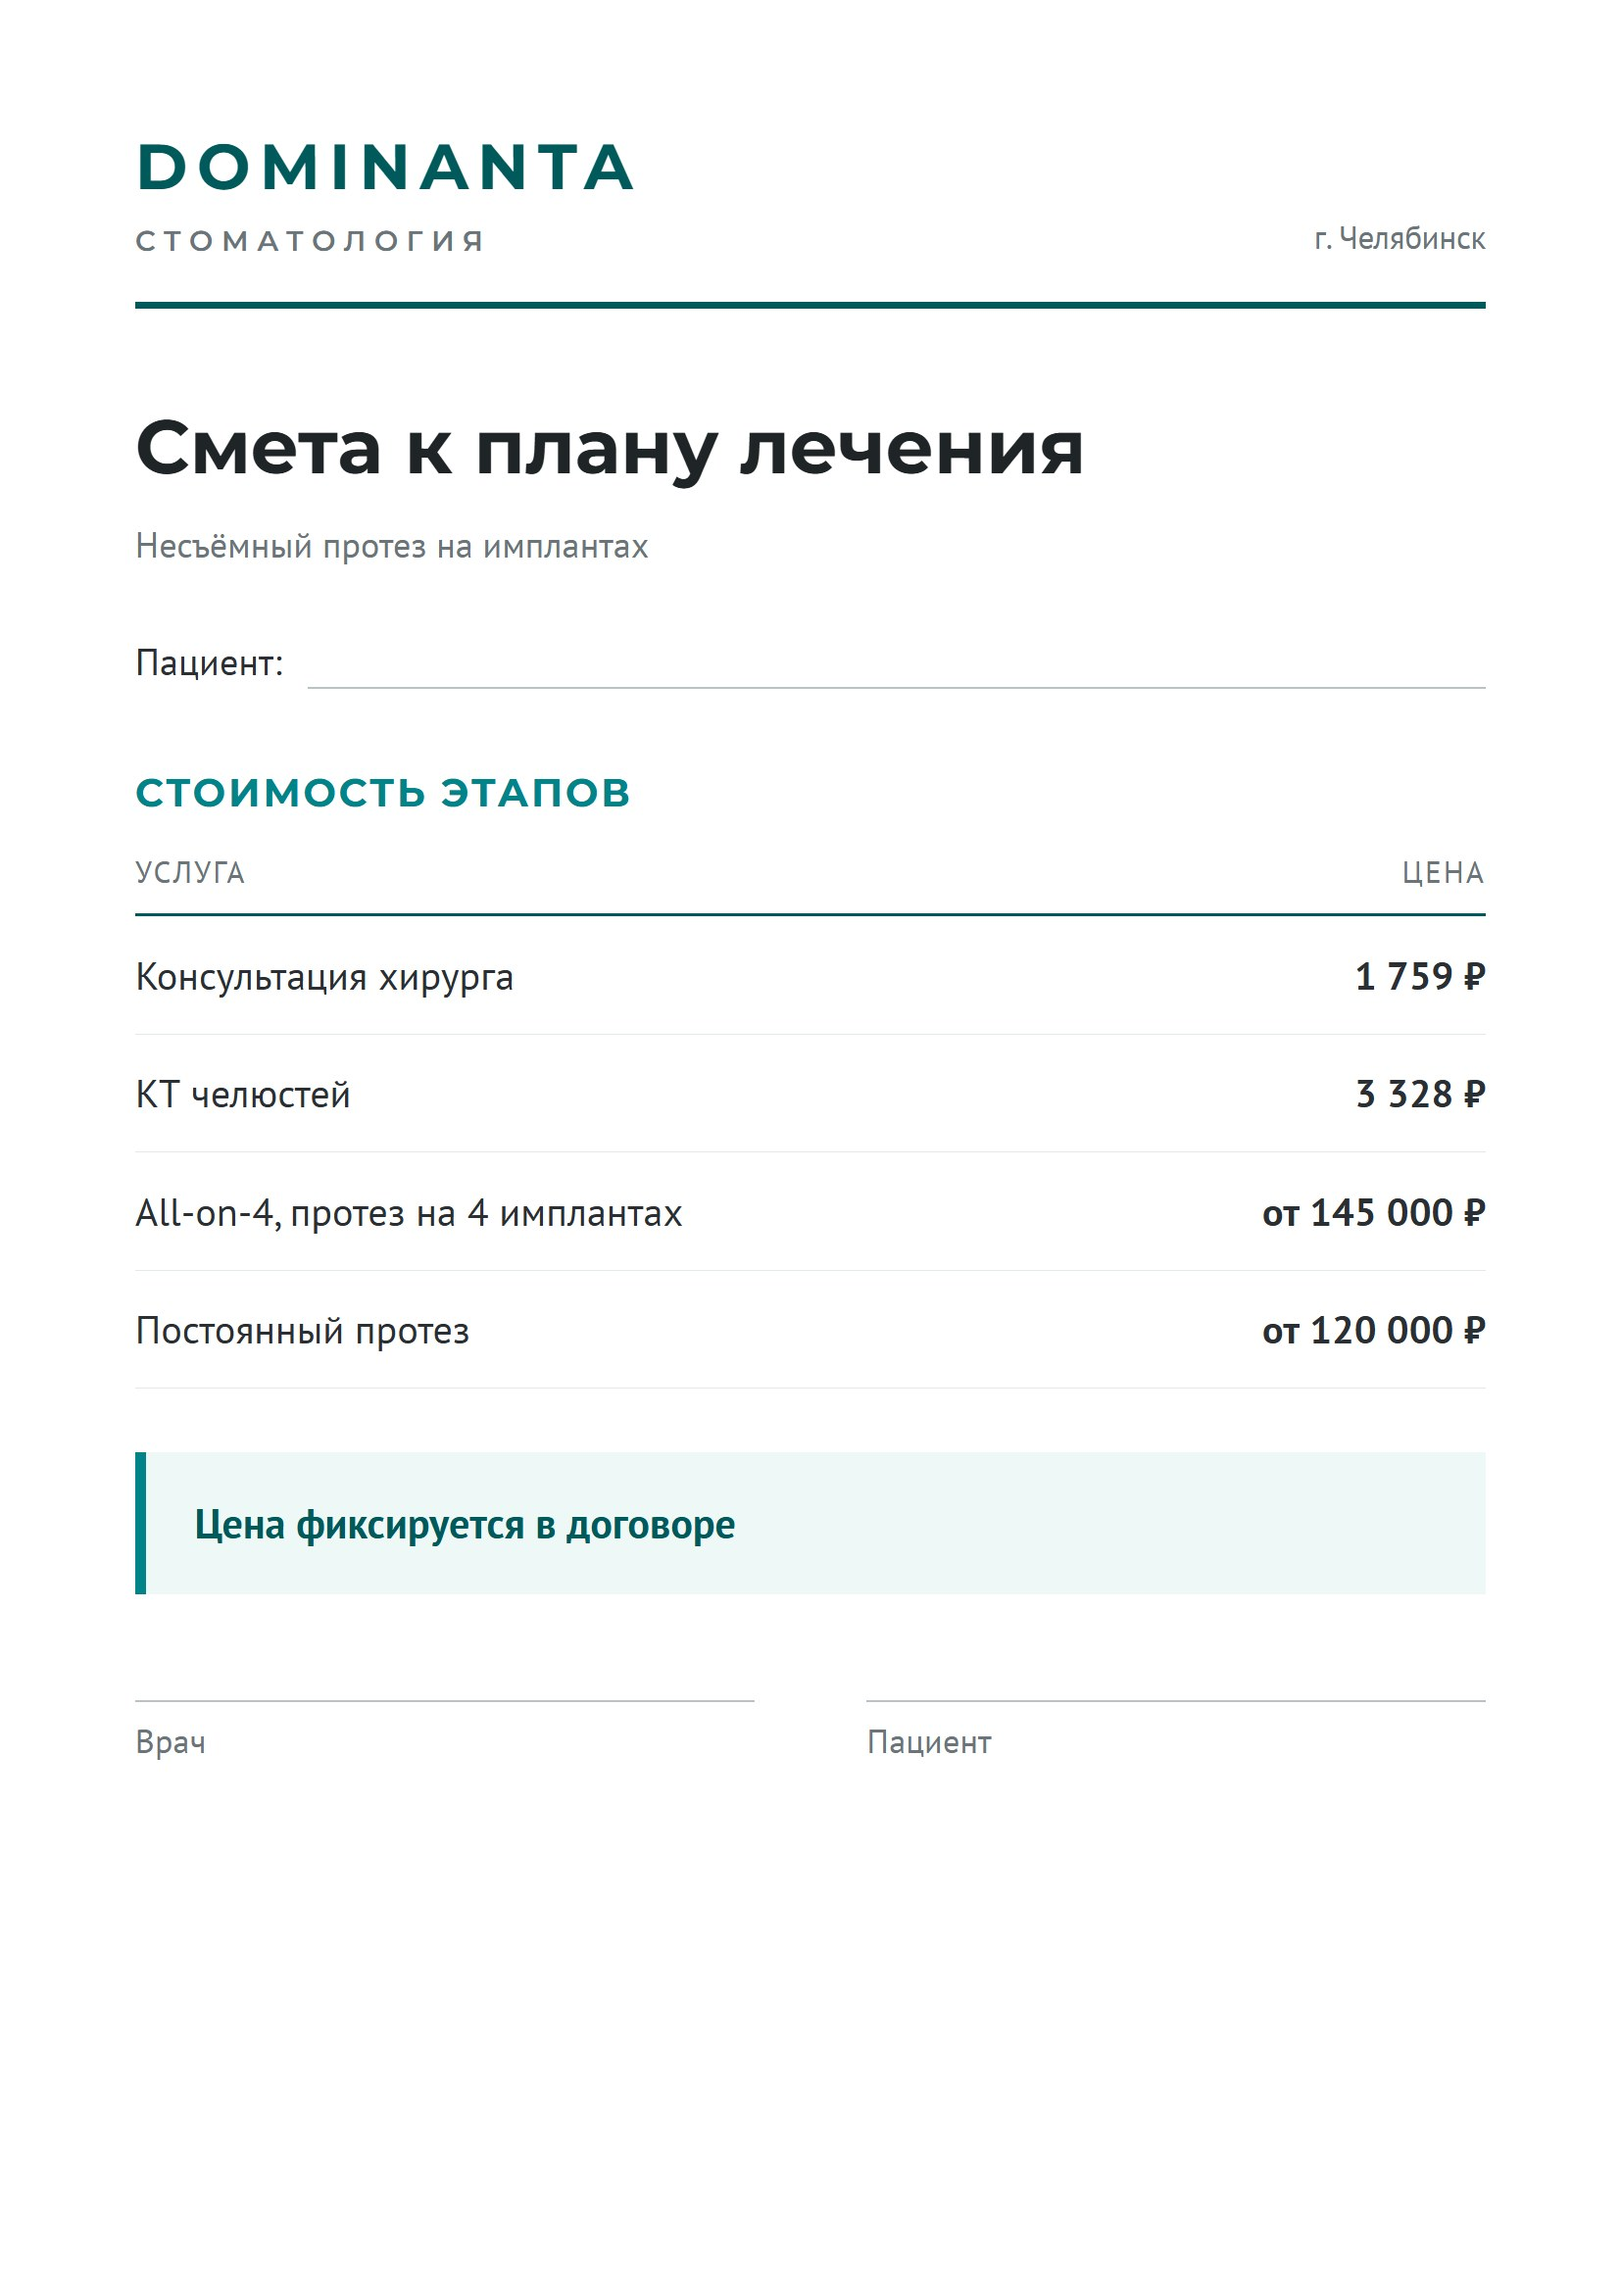
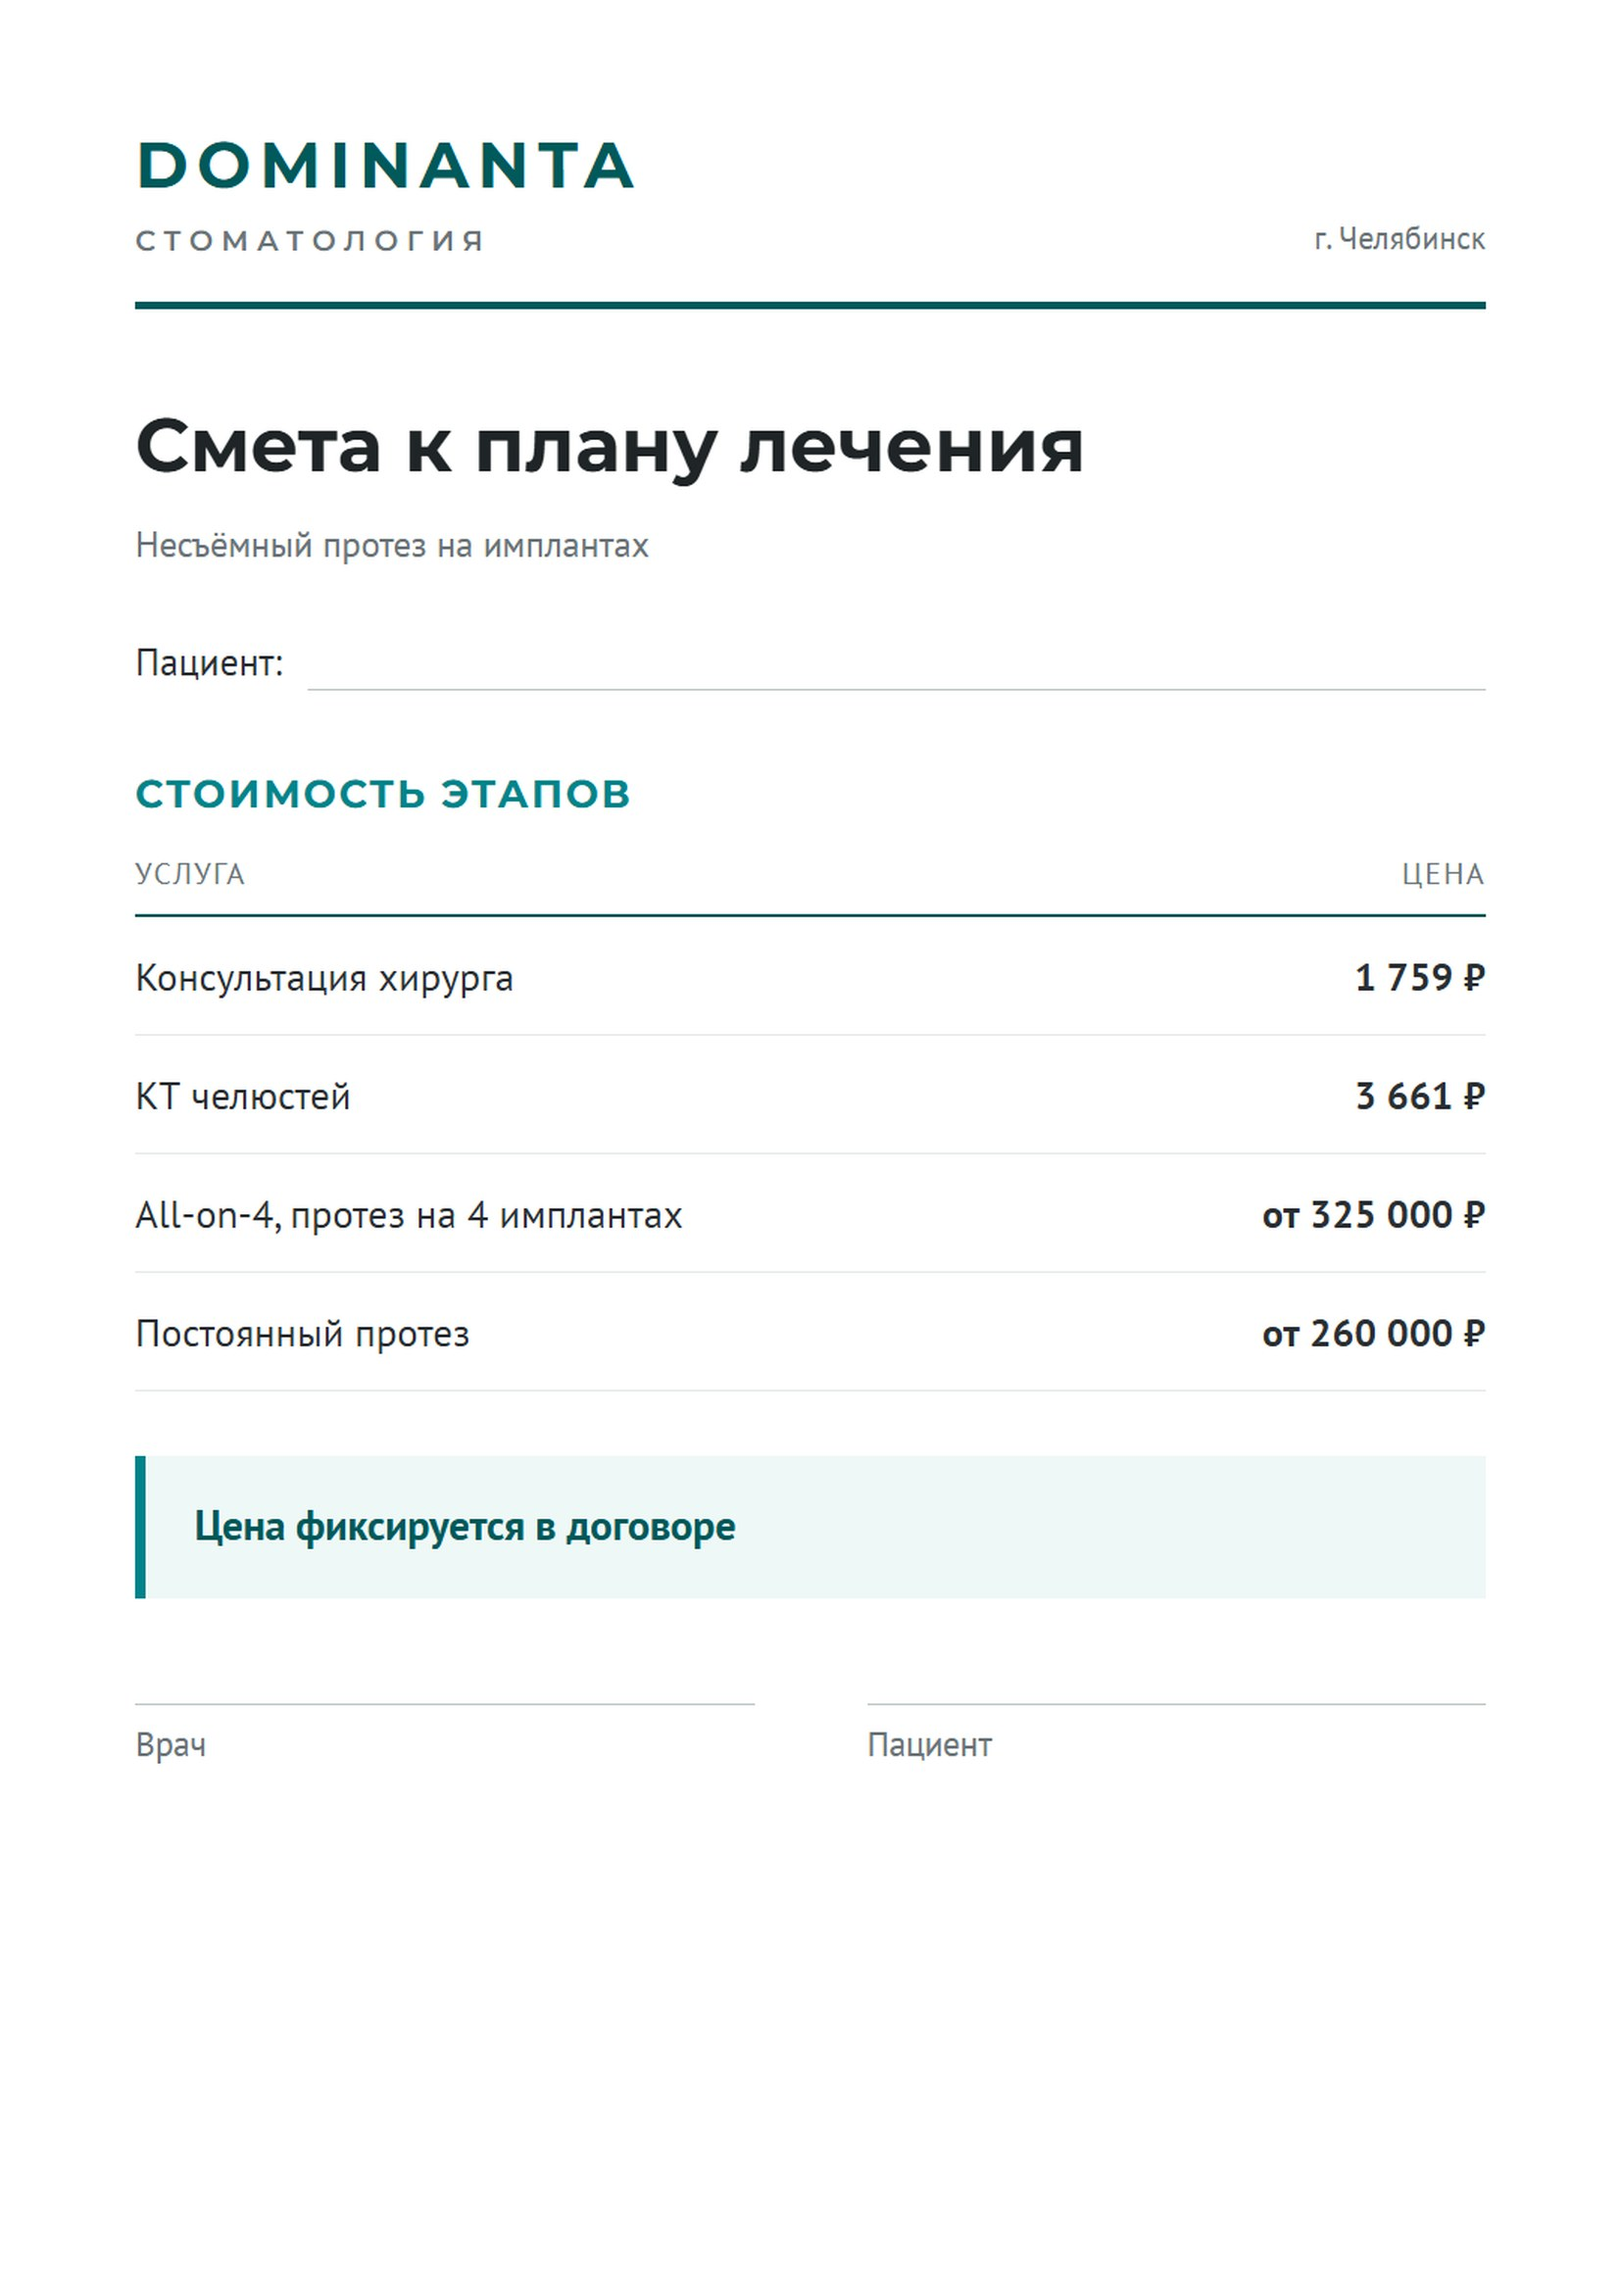
Смета: новые цены (КТ 3 661, All-on-4 от 325 000, постоянный от 260 000)

diff --git a/site/index.html b/site/index.html
@@ -427,7 +427,7 @@
             <li>Цена и&nbsp;этапы не&nbsp;меняются после подписания</li>
           </ul>
         </div>
-        <img src="assets/guarantee-flyer.png" alt="Образец плана лечения" loading="lazy">
+        <img src="assets/guarantee-flyer.png?v=2" alt="Образец плана лечения" loading="lazy">
       </div>
     </section>
 
@@ -492,7 +492,7 @@
               <a class="btn btn--white btn--lg text-button-lg" href="https://dominanta74.ru/tseny-na-lechenie-zubov/" target="_blank" rel="noopener">Смотреть прайс-лист</a>
             </div>
           </div>
-          <div class="pricing__media"><img class="media-img" src="assets/pricing.jpg" alt="Образец плана лечения" loading="lazy"></div>
+          <div class="pricing__media"><img class="media-img" src="assets/pricing.jpg?v=2" alt="Образец плана лечения" loading="lazy"></div>
         </div>
       </div>
     </section>
